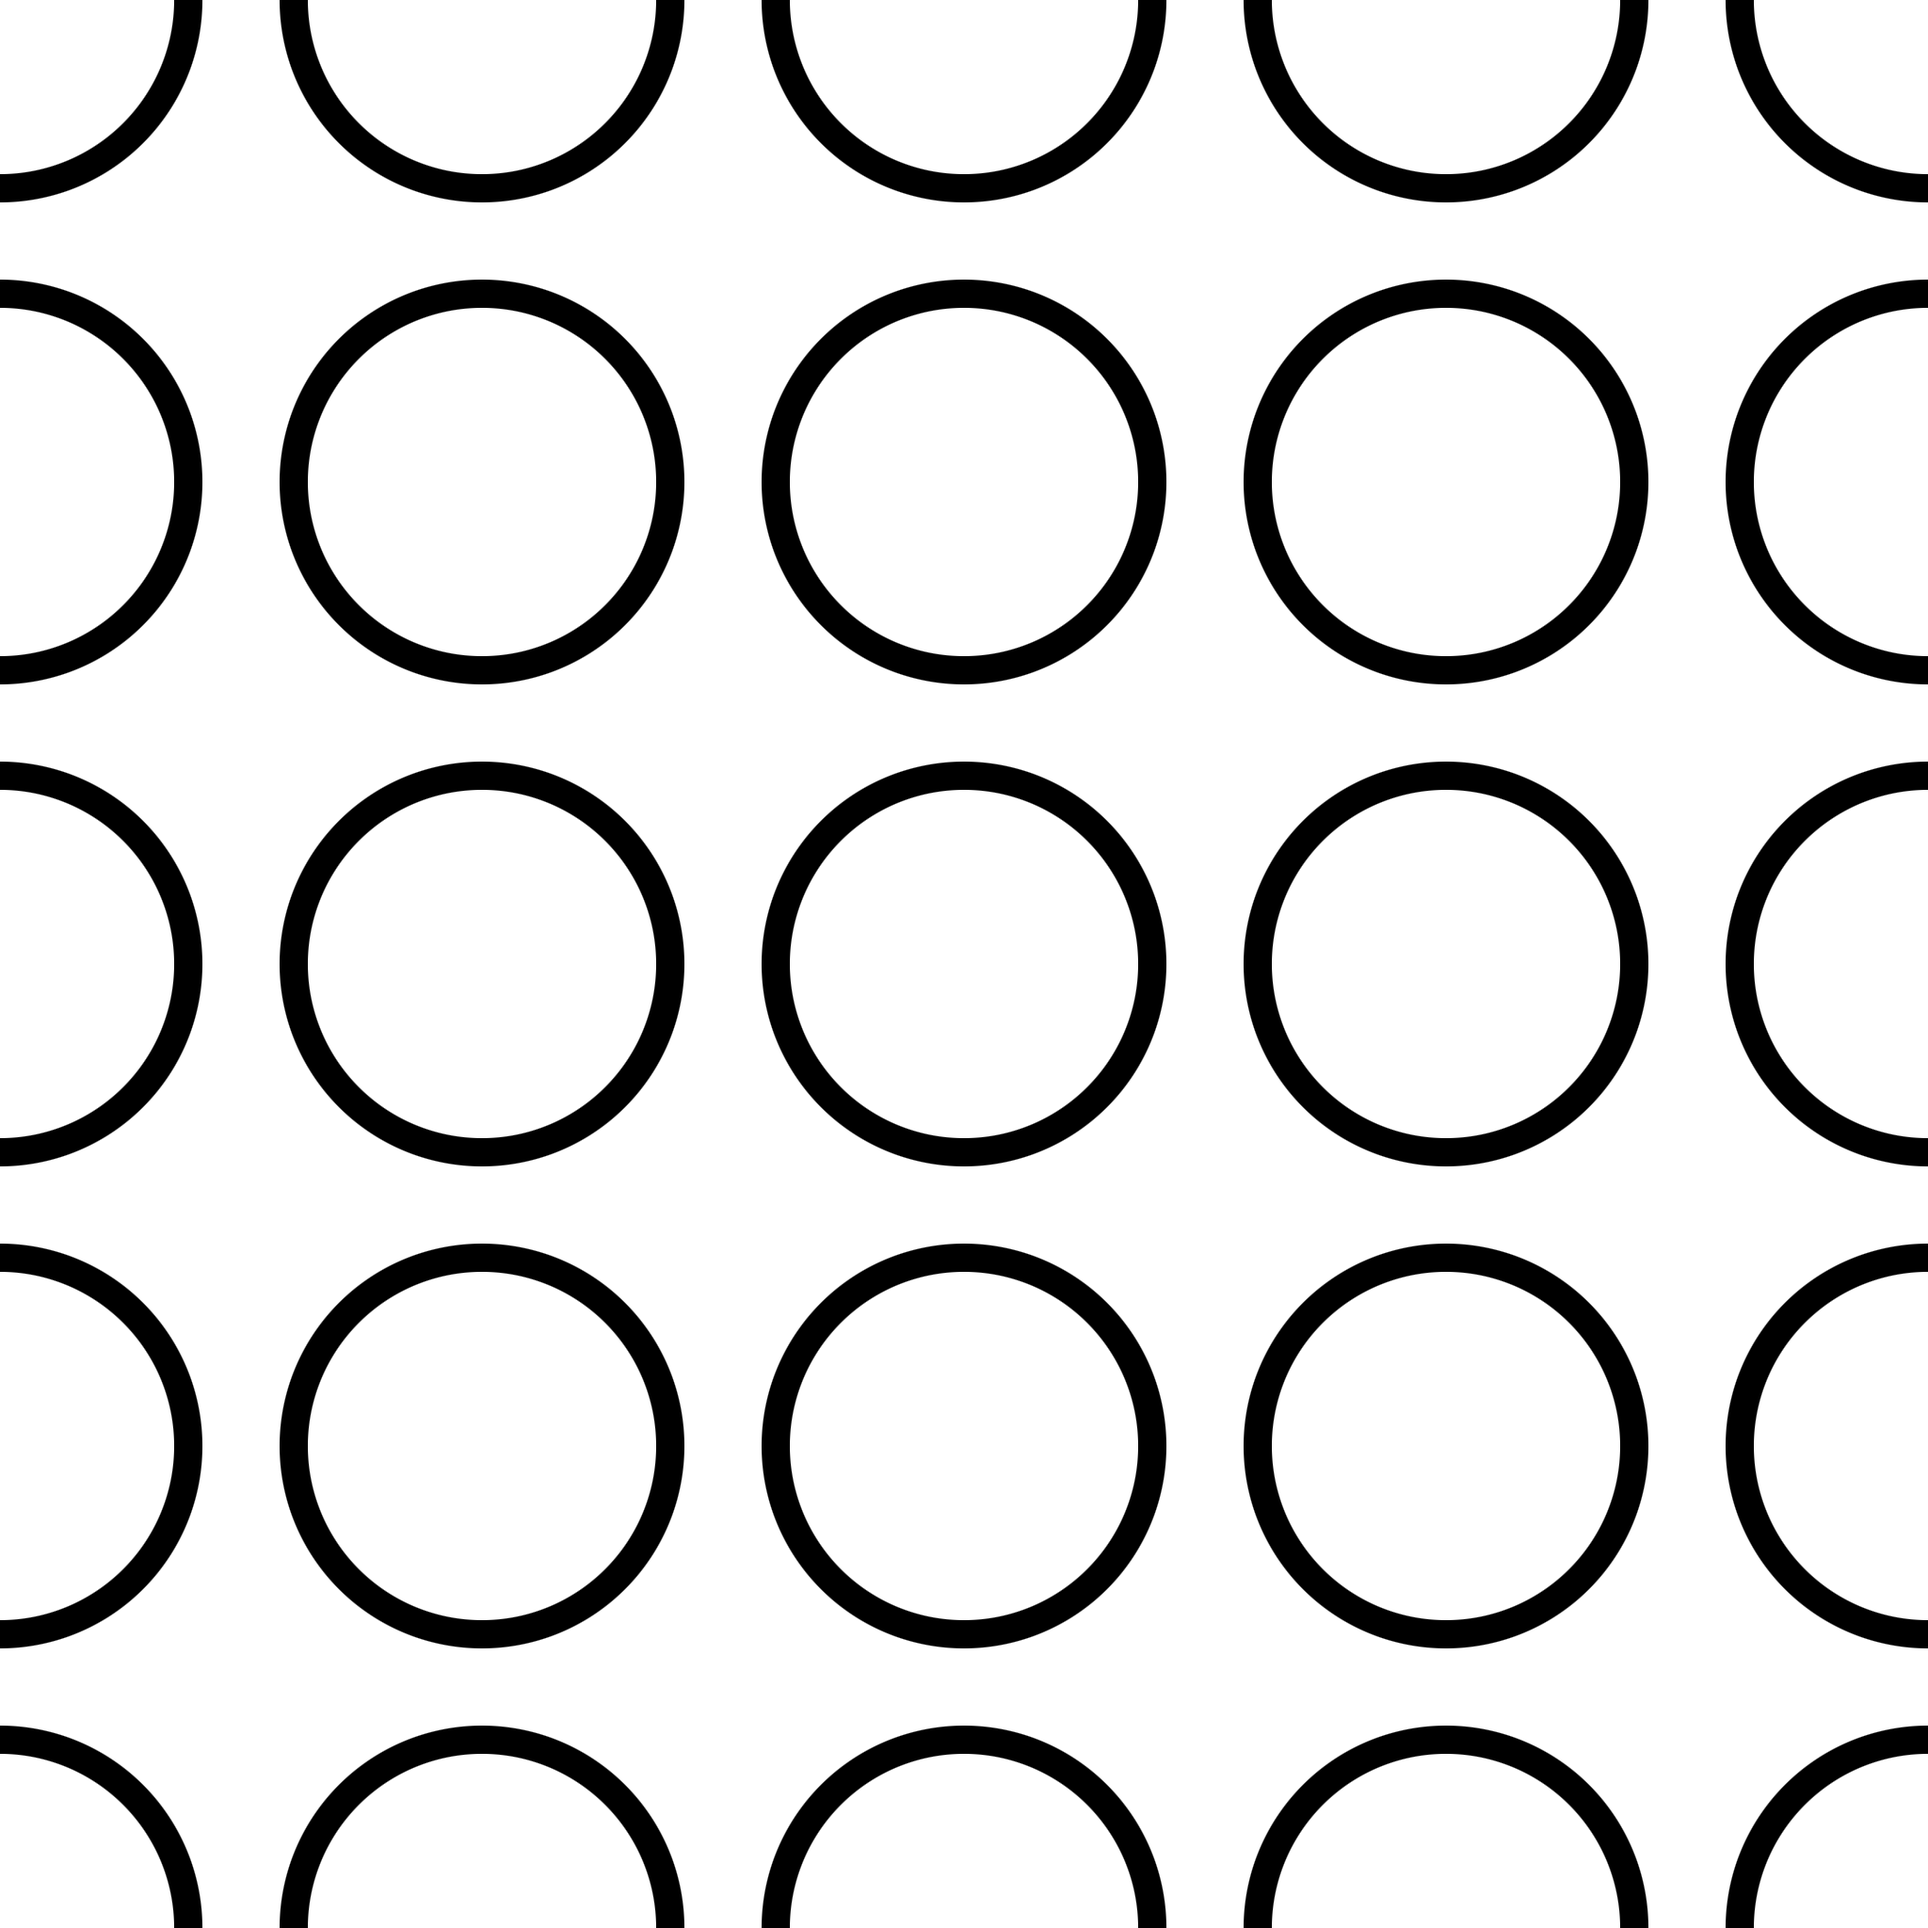
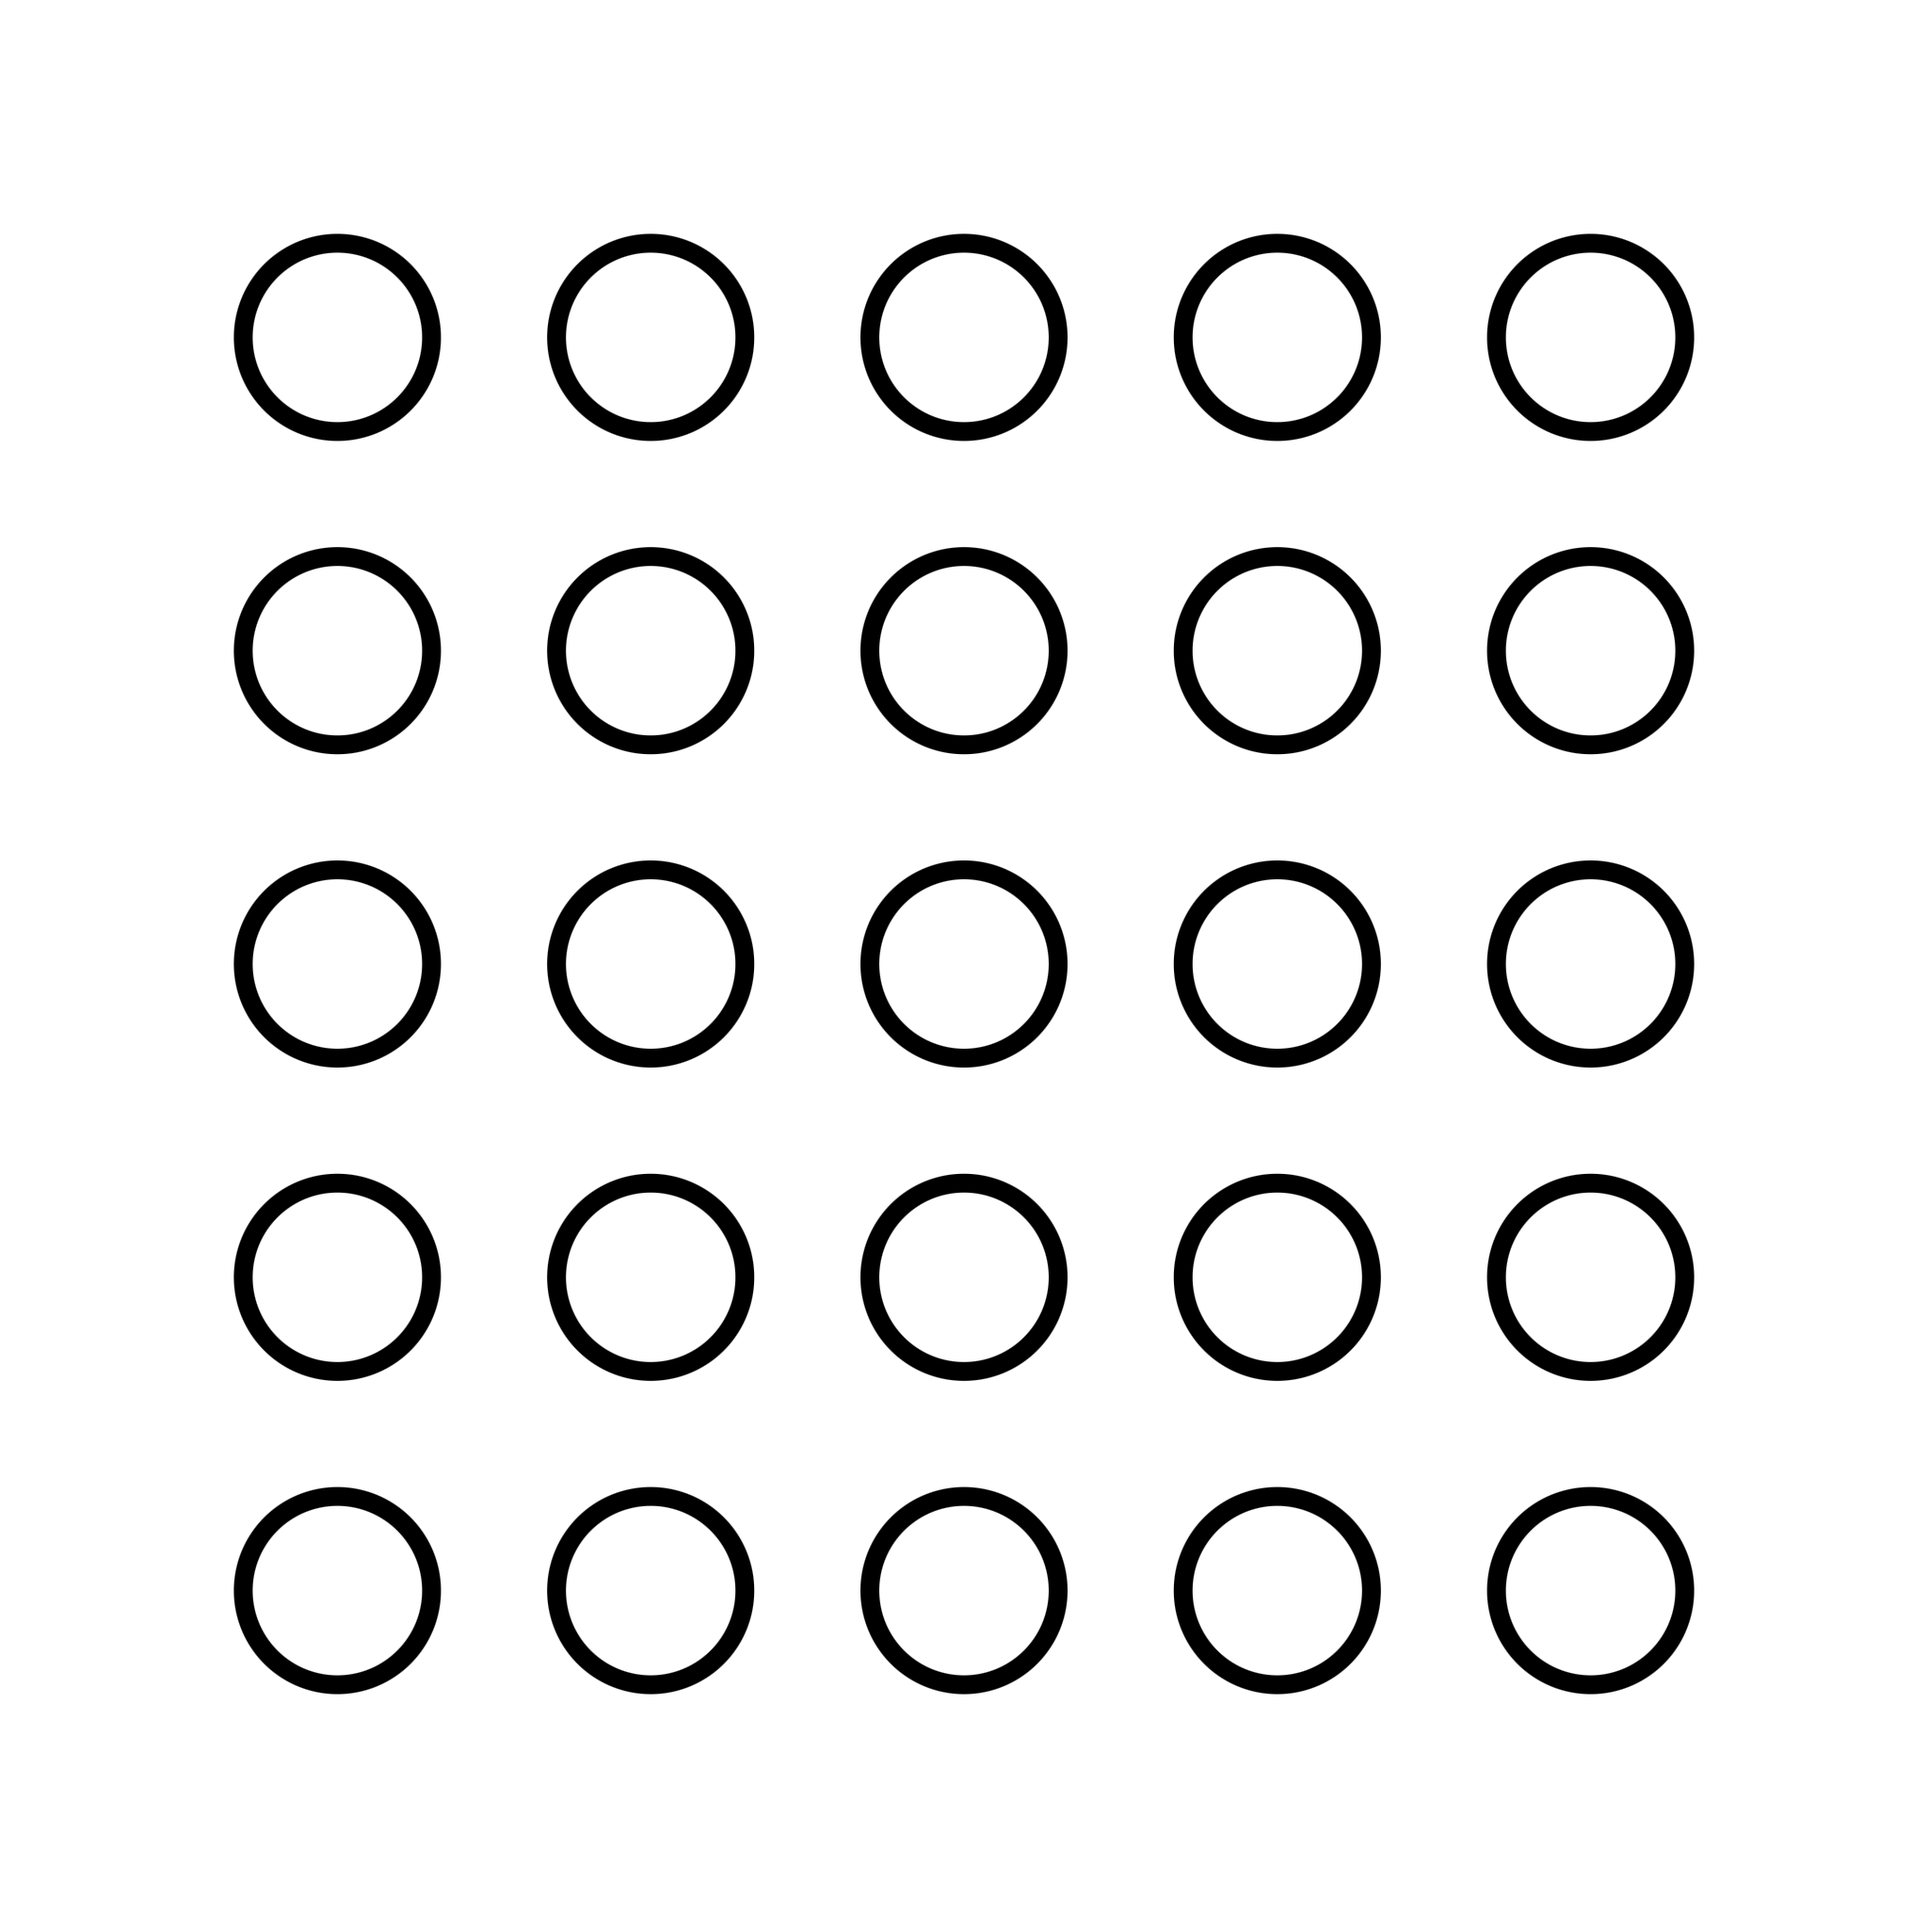
Added linear interpolation

Changed region(s): [[0.0, 0.0, 1.0, 1.0]]

diff --git a/sketch.js b/sketch.js
@@ -1,5 +1,5 @@
 const canvasSketch = require('canvas-sketch');
-
+const {lerp} = require("canvas-sketch-util/math");
 const settings = {
   dimensions: [ 2048, 2048 ]
 };
@@ -18,16 +18,18 @@ const sketch = () => {
     return points
   }
   const points = createGrid()
+
   return ({ context, width, height }) => {
+      const margin = width *0.175
 context.fillStyle = 'white'
     context.fillRect(0,0,width,height)
     points.forEach(([u,v]) => {
-const x = u * width
-      const y = v* height
+const x = lerp(margin,width-margin,u)
+      const y = lerp(margin,height-margin,v)
 
       context.beginPath()
-      context.arc(x,y,250,0,Math.PI*2)
-      context.lineWidth = 30
+      context.arc(x,y,100,0,Math.PI*2)
+      context.lineWidth = 20
       context.stroke()
     })
   };
